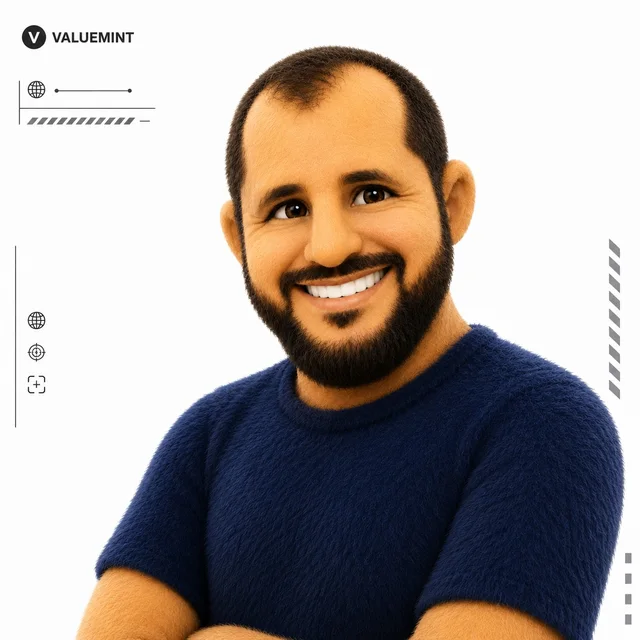
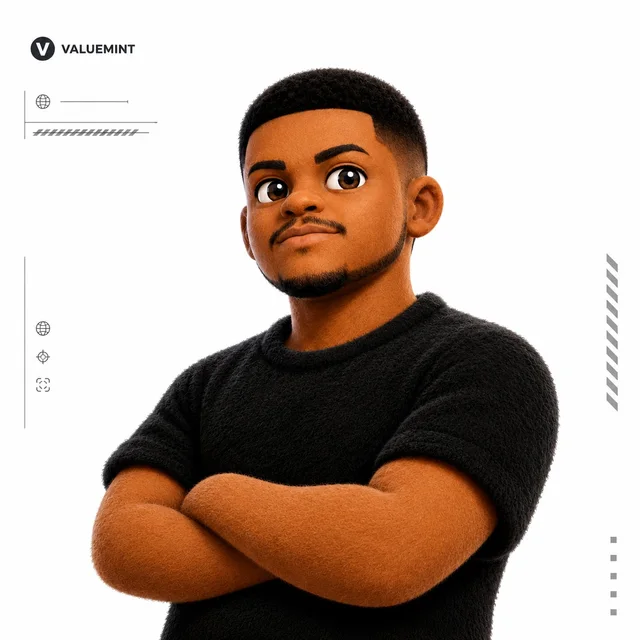
KOLs: X handles, roster changes, four new portraits
- X profile links under the name for CORTEZ, SKIDO, VITALY, Vault,
  NFTrader-Crypto and bΞar.
- Removed Keng Noor, Markinho and Stephen; added bΞar, Kagurazaka Fortune,
  ただのいぬ and ハルのナカミ; new artwork for VITALY. Ids closed up to
  1-18: safe because no KOLs collection exists on chain yet (checked both
  factories), and it lets the first sequential mint land each portrait on
  its own id.
- The local portrait mirror regenerated to match.
- The ribbon's stride is now chosen coprime with the roster size; a fixed 5
  would have cycled three faces at 15.

diff --git a/config/kols.ts b/config/kols.ts
@@ -14,44 +14,53 @@
  *
  * ## Token id is the index
  *
- * Token N carries entry N, so ids stay stable as the list grows. **Only ever
- * append.** Reordering or removing an entry would silently repoint a token
- * that is already in someone's wallet at a different person's portrait.
+ * Token N carries entry N, so ids stay stable as the list grows. **Once the
+ * collection is minted, only ever append.** Reordering or removing an entry
+ * would silently repoint a token already in someone's wallet at a different
+ * person's portrait.
+ *
+ * Renumbered once, 2026-09-26, before anything existed on chain (no KOLs
+ * collection in either factory, checked): Keng Noor, Markinho and Stephen
+ * were removed and bΞar added (then three more the same day), and the ids
+ * were closed up so the first mint —
+ * `mintBatch` numbers tokens sequentially from 1 — lands each portrait on its
+ * own id with no gaps.
  */
 
 export interface Kol {
-  /** Token id. Also this entry's position — append only. */
+  /** Token id. Also this entry's position — append only, once minted. */
   n: number;
   /** The name they go by. */
   name: string;
   /** Filebase CID of the portrait. */
   image: string;
+  /** Their X profile, where they gave one. */
+  x?: string;
 }
 
 export const KOLS: Kol[] = [
   { n: 1, name: "BTCtensai", image: "QmWp59bT9RZi6qQozSZnfsoT2VC4z2744dZdQTGcGa83tz" },
-  { n: 2, name: "CORTEZ", image: "QmPj319pEoPpg2NqP5ozvk2qxPoMDWjKPm2jMvnENAqi3K" },
+  { n: 2, name: "CORTEZ", image: "QmPj319pEoPpg2NqP5ozvk2qxPoMDWjKPm2jMvnENAqi3K", x: "https://x.com/eyupyavuz75" },
   { n: 3, name: "ELIAS", image: "Qmb7cBjWjstatn3QZXj1wfvBv23BtmttEPfJyAmWBBdNG7" },
   { n: 4, name: "FARMERCIST", image: "QmadRf1XfZRqUhHZe3NLDbJv7RTqaXC9wwv2Dch7mZNVyM" },
-  { n: 5, name: "KENG NOOR", image: "QmQjpADdjRv1YtY4UrHYNAWZ9gJsUodgC4Zg5SVkp19YSH" },
-  { n: 6, name: "LUTZ", image: "QmQ4LmfH4StkAmNLxHfmuz2CKbyJPqvRqiUWzLd2QjxUsC" },
-  { n: 7, name: "MARKINHO", image: "Qmdkz4kNgUmShMnaAE3oegwomQV45UgjUCka4qvJTEscZq" },
-  { n: 8, name: "MICK", image: "QmZMufXR1z6QAFE83r9sRiqKBSsDPXhDLb8gFajvpuiHYV" },
-  { n: 9, name: "SKIDO", image: "QmRJoNdX43yLpTUMfxt77eCtvNs585Ra5wqcncoyMhnbyP" },
-  { n: 10, name: "TAKIMI", image: "QmdMQBwzSru7WyeaJJbTX8a1yw8rA6mX69TBTtVc2rJFAa" },
-  { n: 11, name: "VICTOR", image: "QmZYgrPQiMB6pUHPGcVbaiLEKcet5yV1NeDp6iNpRkh2cS" },
-  { n: 12, name: "VITALY", image: "QmTRUUobkZ8VCjtdh1Tby3gwt4tu7UJ6YYCS6jTx3Ac2G6" },
-  /* Appended rather than sorted into place. The twelve above happen to be
-     alphabetical, which is a coincidence of the order they were added in — and
-     "0xYeFz" would sort to the top, which is exactly the move the note above
-     forbids: token N carries entry N, so reordering repoints somebody's
-     portrait at a different person. */
-  { n: 13, name: "0xYeFz", image: "QmYdzZKnNZBvrQ7TKgheAcdXJRp3Yg8t5SYGpQ8v3DW1mM" },
-  { n: 14, name: "Vault", image: "QmR3mn5oGzragL4EkMsJE3hp5soTPMX2DLLh61pUxeh6Si" },
-  { n: 15, name: "Stephen", image: "QmVdG9ZbGHfNEkGe1QPqZfHBuJF7QduoUUoxQhBQiTLP3w" },
-  { n: 16, name: "NFTrader-Crypto", image: "QmeQ23pxiPzEWuW1ZebqEqmBbYdz39KvRBNTrfQZeSwZp7" },
-  { n: 17, name: "Ralmix", image: "Qmc5UYEsvfcstnjDdsFYbVmijwEh62P1sgN68pfo2Dd6nC" },
+  { n: 5, name: "LUTZ", image: "QmQ4LmfH4StkAmNLxHfmuz2CKbyJPqvRqiUWzLd2QjxUsC" },
+  { n: 6, name: "MICK", image: "QmZMufXR1z6QAFE83r9sRiqKBSsDPXhDLb8gFajvpuiHYV" },
+  { n: 7, name: "SKIDO", image: "QmRJoNdX43yLpTUMfxt77eCtvNs585Ra5wqcncoyMhnbyP", x: "https://x.com/MR_CRYPTO150" },
+  { n: 8, name: "TAKIMI", image: "QmdMQBwzSru7WyeaJJbTX8a1yw8rA6mX69TBTtVc2rJFAa" },
+  { n: 9, name: "VICTOR", image: "QmZYgrPQiMB6pUHPGcVbaiLEKcet5yV1NeDp6iNpRkh2cS" },
+  { n: 10, name: "VITALY", image: "QmTNkiWFbiEM1hLDHk6GjC6c7XhUyTGyhg64aQgxqvefkH", x: "https://x.com/vitalythm" },
+  { n: 11, name: "0xYeFz", image: "QmYdzZKnNZBvrQ7TKgheAcdXJRp3Yg8t5SYGpQ8v3DW1mM" },
+  { n: 12, name: "Vault", image: "QmR3mn5oGzragL4EkMsJE3hp5soTPMX2DLLh61pUxeh6Si", x: "https://x.com/VaultSeek" },
+  { n: 13, name: "NFTrader-Crypto", image: "QmeQ23pxiPzEWuW1ZebqEqmBbYdz39KvRBNTrfQZeSwZp7", x: "https://x.com/NftraderCrypto" },
+  { n: 14, name: "Ralmix", image: "Qmc5UYEsvfcstnjDdsFYbVmijwEh62P1sgN68pfo2Dd6nC" },
+  { n: 15, name: "bΞar", image: "QmQoHrQqt7vz4gD8ZUtB8RDSgw8RC92eg1ytMqHgDpFyod", x: "https://x.com/mato_3535" },
+  { n: 16, name: "Kagurazaka Fortune", image: "QmXyTk8yrdp3cViAfxEQTFWpNa8yD5HNaeCgbQs5ov5mts" },
+  { n: 17, name: "ただのいぬ", image: "QmTwQwMK8VfSjpdPAdpsYi5QpdJep8qr4jED6mNCT7HHza" },
+  { n: 18, name: "ハルのナカミ", image: "QmS53hQv261bJehBbdT7f14Gnn5MvbGiTXmEzDAJew5B15" },
 ];
+
+/** "https://x.com/VaultSeek" → "@VaultSeek". */
+export const xHandle = (url: string) => `@${url.replace(/\/+$/, "").split("/").pop() ?? ""}`;
 
 /** The collection's slug, matching the metadata route and the contract baseURI. */
 export const KOLS_SLUG = "valuemint-kols";

diff --git a/components/KolRibbon.tsx b/components/KolRibbon.tsx
@@ -121,14 +121,20 @@ const SLOTS = KOLS.length * 4;
 /**
  * The belt's fixed running order.
  *
- * Stride 5 rather than `i % 12`, which would run the roster in its stored order
- * four times over and put the two cats a fixed twelve apart. Five is coprime
- * with twelve, so every portrait still appears exactly four times and the order
- * is mixed. It is arithmetic rather than a shuffle because the server and the
- * browser have to agree on it, and it is computed once because it never
- * changes.
+ * A stride rather than `i % n`, which would run the roster in its stored order
+ * four times over. The stride must share no factor with the roster size or
+ * the belt repeats a few faces and never shows the rest: 5 was fine at 12 and
+ * 17, and at 15 it would have cycled three portraits. So it is the first
+ * number from 5 up that is coprime with the roster, found here rather than
+ * hardcoded. Arithmetic rather than a shuffle because the server and the
+ * browser have to agree on it, and computed once because it never changes.
  */
-const BELT: Kol[] = Array.from({ length: SLOTS }, (_, i) => KOLS[(i * 5) % KOLS.length]).filter(
+const gcd = (a: number, b: number): number => (b === 0 ? a : gcd(b, a % b));
+const STRIDE = (() => {
+  for (let s = 5; s < KOLS.length; s++) if (gcd(s, KOLS.length) === 1) return s;
+  return 1;
+})();
+const BELT: Kol[] = Array.from({ length: SLOTS }, (_, i) => KOLS[(i * STRIDE) % KOLS.length]).filter(
   (k): k is Kol => k !== undefined,
 );
 

diff --git a/app/kols/page.tsx b/app/kols/page.tsx
@@ -2,7 +2,7 @@
 
 import Image from "next/image";
 import { Art } from "@/components/Art";
-import { KOLS, kolImage } from "@/config/kols";
+import { KOLS, kolImage, xHandle } from "@/config/kols";
 import "@/styles/kols.css";
 
 /**
@@ -133,6 +133,20 @@ export default function Kols() {
                   <b>{k.name}</b>
                   <span className="mono">#{k.n}</span>
                 </div>
+                {k.x === undefined ? null : (
+                  <a
+                    className="kol-card-x"
+                    href={k.x}
+                    target="_blank"
+                    rel="noreferrer noopener"
+                    aria-label={`${k.name} on X`}
+                  >
+                    <svg viewBox="0 0 24 24" aria-hidden="true" focusable="false">
+                      <path d="M18.9 2H22l-6.8 7.8L23.2 22h-6.3l-4.9-6.4L6.4 22H3.3l7.3-8.3L2.8 2h6.4l4.4 5.8L18.9 2Zm-1.1 18.1h1.7L8.3 3.8H6.5l11.3 16.3Z" />
+                    </svg>
+                    {xHandle(k.x)}
+                  </a>
+                )}
               </article>
             ))}
           </div>

diff --git a/styles/kols.css b/styles/kols.css
@@ -402,3 +402,32 @@
     opacity: 1;
   }
 }
+
+/* Their X profile, under the name: the one thing on this page a visitor can
+   act on. Quiet until pointed at, so the roster still reads as portraits. */
+.kol-card-x {
+  display: flex;
+  align-items: center;
+  gap: 0.35rem;
+  min-width: 0;
+  padding: 0 0.75rem 0.6rem;
+  font-size: var(--step--2);
+  font-weight: 600;
+  color: var(--ink-3);
+  text-decoration: none;
+  overflow: hidden;
+  text-overflow: ellipsis;
+  white-space: nowrap;
+}
+
+.kol-card-x svg {
+  flex: none;
+  width: 12px;
+  height: 12px;
+  fill: currentColor;
+}
+
+.kol-card-x:hover,
+.kol-card-x:focus-visible {
+  color: var(--ink);
+}
